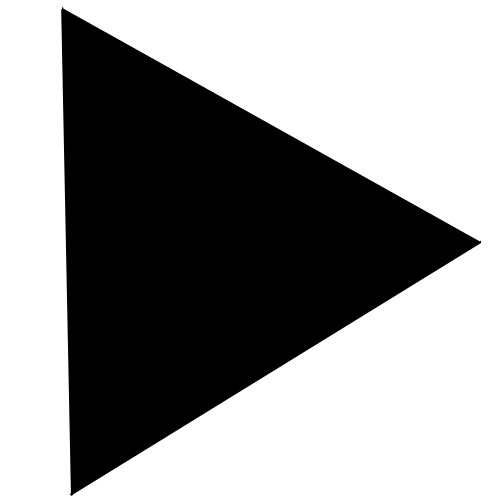
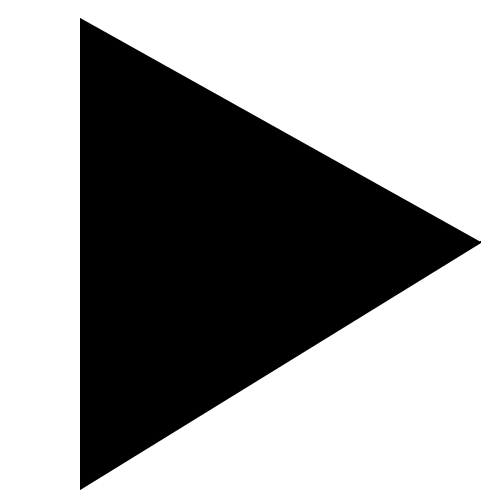
Fix image

Changed region(s): [[0.12, 0.0, 0.18, 0.99]]

diff --git a/lib/ui/button.dart b/lib/ui/button.dart
@@ -22,13 +22,11 @@ class Button {
   /// The image of the button
   Image? image;
 
-  Button({Offset center = const Offset(0, 0), Size size = const Size(0, 0), Color color = material.Colors.yellow, Color? downColor, Image? image})
+  Button({Offset center = const Offset(0, 0), Size size = const Size(0, 0), Color color = material.Colors.yellow, Color? downColor, this.image})
   :_center = center
   ,_size = size
   ,_color = color
-  ,_downColor = downColor ?? color {
-    image = image;
-  }
+  ,_downColor = downColor ?? color;
 
   /// Calculate the down size
   Size get downSize {
@@ -54,8 +52,8 @@ class Button {
         Sprite sprite = Sprite(image);
         sprite.render(
           canvas,
-          position: Vector2(_toAbsoluteWidth(_center.dx - (_size.width / 2), screenSize: screenSize), _toAbsoluteHeight(_center.dy, screenSize: screenSize)),
-          size: Vector2(_toAbsoluteWidth(_size.width, screenSize: screenSize), _toAbsoluteHeight(_size.height, screenSize: screenSize)),
+          position: Vector2(_toAbsoluteWidth(_center.dx - (_size.width / 4), screenSize: screenSize), _toAbsoluteHeight(_center.dy - (_size.height / 2), screenSize: screenSize)),
+          size: Vector2(_toAbsoluteWidth(_size.width / 2, screenSize: screenSize), _toAbsoluteHeight(_size.height, screenSize: screenSize)),
         );
       }
     } else {

diff --git a/lib/ui/animations/begin/begin_setting_animation.dart b/lib/ui/animations/begin/begin_setting_animation.dart
@@ -152,6 +152,6 @@ class BeginSettingAnimation extends BaseAnimation {
   /// If the animation have resource, it should be loaded before the animation play.
   @override
   Future<void> loadResource() async {
-    settingImage = await Flame.images.load('play.png');
+    settingImage = await Flame.images.load('setting.png');
   }
 }

diff --git a/lib/pixel_snake.dart b/lib/pixel_snake.dart
@@ -181,6 +181,7 @@ class PixelSnake with Loadable, Game, TapDetector, KeyboardEvents{
       size: const Size(25, 12.5),
       color: const Color(0XFF9999FF),
       downColor: const Color(0XFF7B7BE1),
+      image: await Flame.images.load('setting.png')
     );
 
     // history button
